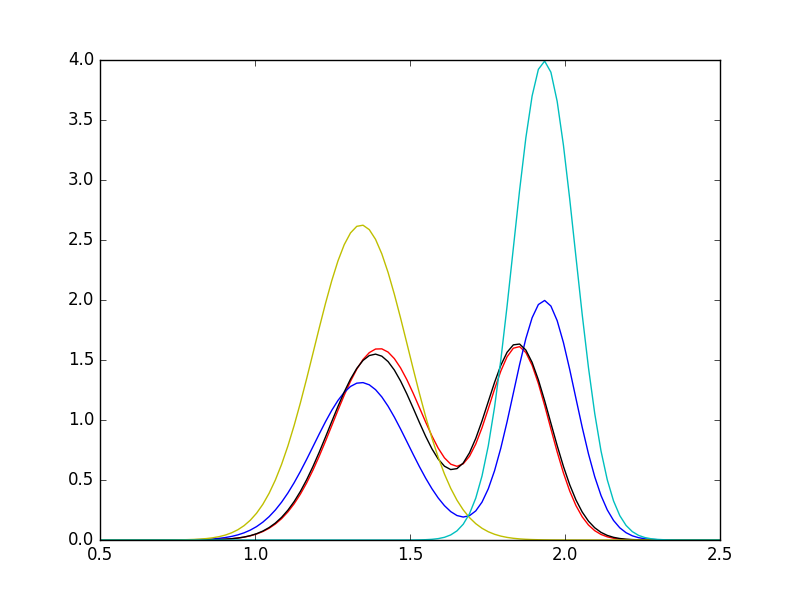
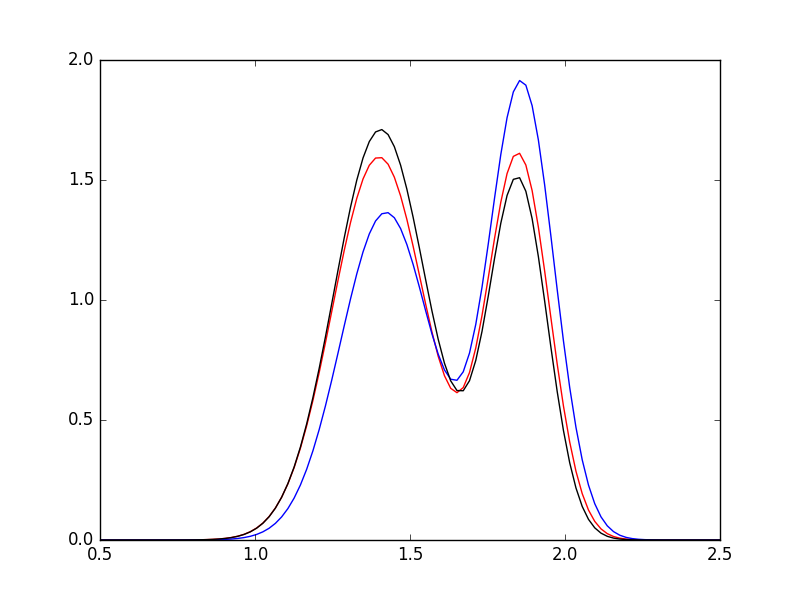
add all changes.

diff --git a/estimate/EM_example.py b/estimate/EM_example.py
@@ -133,11 +133,13 @@ def test_mix_norm_model(m):
     plot_mix_norm_distribute(init_params, bounds, color='b')
     plot_mix_norm_distribute(sim_rst, bounds, color='k')
 
+    '''
     test_p1 = init_params
     test_p1[:, 0] = [0,1]
     plot_mix_norm_distribute(test_p1, bounds, color='y')
     test_p1[:, 0] = [1,0]
     plot_mix_norm_distribute(test_p1, bounds, color='c')
+    '''
     plt.savefig('images/mix_norm/mix_norm_distibute_%s.png' % m, format='png')
 
 if __name__ == "__main__":
